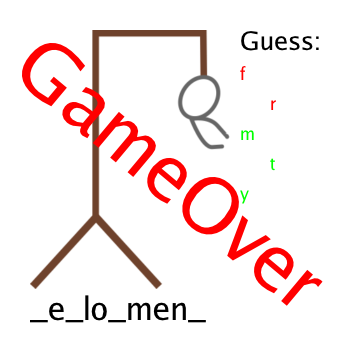
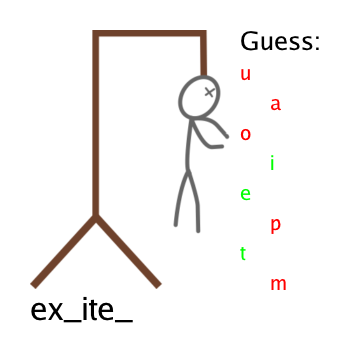
Fix the wrong guesses state handling

diff --git a/hangman_test.go b/hangman_test.go
@@ -33,29 +33,20 @@ func TestHangman(t *testing.T) {
 	}
 }
 
-func TestAfterManyWrongGuessesGameover(t *testing.T) {
+func TestGameOverWhenTooManySteps(t *testing.T) {
 	game := Hangman{
-		Word:    "deployment",
-		Guess:   "",
-		Current: "_e_lo_men_",
+		Word: "corridor",
+		// One correct guess, four wrong
+		Guess:   "astou",
+		Current: "_o____or",
 		State:   TurnState,
 	}
-	game.MakeGuess('a')
-	game.MakeGuess('w')
-	game.MakeGuess('c')
-	game.MakeGuess('g')
-	game.MakeGuess('r')
-	game.MakeGuess('q')
-	game.MakeGuess('f')
 
+	// Last guess and game should be over
+	game.MakeGuess('m')
 	if game.State != GameOverState {
-		t.Error("Game should be over after many wrong attempts state =", game.State)
+		t.Errorf("The guesses exceeds the steps=%s state=%s", game.Guess, game.State)
 	}
-	if game.Guess != "awcgr" {
-		t.Error("The guess list should be same as awcgrq =", game.Guess)
-	}
-
-	game.MakeGuess('d')
 }
 
 func TestGuessWontAllowDuplicates(t *testing.T) {

diff --git a/draw/draw.go b/draw/draw.go
@@ -48,8 +48,8 @@ func DrawWrongGuesses(gc *draw2dimg.GraphicContext, guess, word string) {
 			gc.SetFillColor(RedColor)
 		}
 		gc.SetFontSize(16)
-		xOffset := index % 2 * 30
-		yOffset := index * 30
+		xOffset := index % 2 * 35
+		yOffset := index * 20
 		gc.FillStringAt(fmt.Sprintf("%c", char), float64(240+xOffset), float64(80+yOffset))
 	}
 	gc.Restore()
@@ -57,7 +57,7 @@ func DrawWrongGuesses(gc *draw2dimg.GraphicContext, guess, word string) {
 
 func DrawHangmanFrame(gc *draw2dimg.GraphicContext, imagePath string, wrongGuess []rune) {
 	guesses := len(wrongGuess)
-	if guesses > hangman.STEPS {
+	if guesses > hangman.Steps {
 		log.Println("Too many guesses")
 		return
 	}
@@ -137,7 +137,7 @@ func Draw(game *hangman.Hangman) image.Image {
 	gc.Save()
 	gc.SetFillColor(color.Black)
 	gc.SetFontSize(25)
-	gc.FillStringAt(game.Current, 30, 320)
+	gc.FillStringAt(fmt.Sprintf("%s [%d]", game.Current, len(game.Current)), 30, 320)
 	gc.Restore()
 
 	return dest

diff --git a/hangman.go b/hangman.go
@@ -7,8 +7,8 @@ import (
 )
 
 const (
-	STEPS       = 5
-	MAX_VISIBLE = 3
+	Steps      = 5
+	MaxVisible = 3
 )
 
 const (
@@ -67,7 +67,7 @@ func (h *Hangman) checkGameState() State {
 		state = WinState
 	}
 
-	if len(h.GetWrongGuesses()) >= STEPS {
+	if len(h.GetWrongGuesses()) >= Steps {
 		state = GameOverState
 	}
 	return state
@@ -75,7 +75,7 @@ func (h *Hangman) checkGameState() State {
 
 func (h *Hangman) RandomizeWord() string {
 	rand.Seed(int64(time.Now().Nanosecond()))
-	numVisible := rand.Intn(MAX_VISIBLE-1) + 1
+	numVisible := rand.Intn(MaxVisible-1) + 1
 	newWord := ""
 
 	// Create a new string with same size and hidden chars
@@ -103,7 +103,9 @@ func (h *Hangman) MakeGuess(char rune) string {
 
 	// if the char does not exist add into guess list
 	if !strings.ContainsRune(h.Word, char) {
+		// Call order matters here due to the h.Guess changes
 		h.Guess = h.Guess + string(char)
+		h.State = h.checkGameState()
 		return h.Current
 	}
 

diff --git a/commands/guess.go b/commands/guess.go
@@ -60,7 +60,7 @@ func GuessCommand(db *sqlx.DB, userID string, char rune) slack.ResponseMessage {
 	}
 
 	return slack.ResponseMessage{
-		fmt.Sprintf("You guessed char %x", char),
+		fmt.Sprintf("You guessed char %c", char),
 		// fmt.Sprintf("You made move to [%d], opponent made next move to [%d], state %s", spot, freeSpot, newState.Mode),
 		[]slack.Attachment{
 			slack.Attachment{

diff --git a/draw/draw_test.go b/draw/draw_test.go
@@ -9,10 +9,10 @@ import (
 
 func TestDrawGame(t *testing.T) {
 	game := &hangman.Hangman{
-		Word:    "deployment",
-		Guess:   "frmty",
-		Current: "_e_lo_men_",
-		State:   hangman.GameOverState,
+		Word:    "excited",
+		Guess:   "uaoieptm",
+		Current: "ex_ite_",
+		State:   hangman.TurnState,
 	}
 
 	image := Draw(game)
